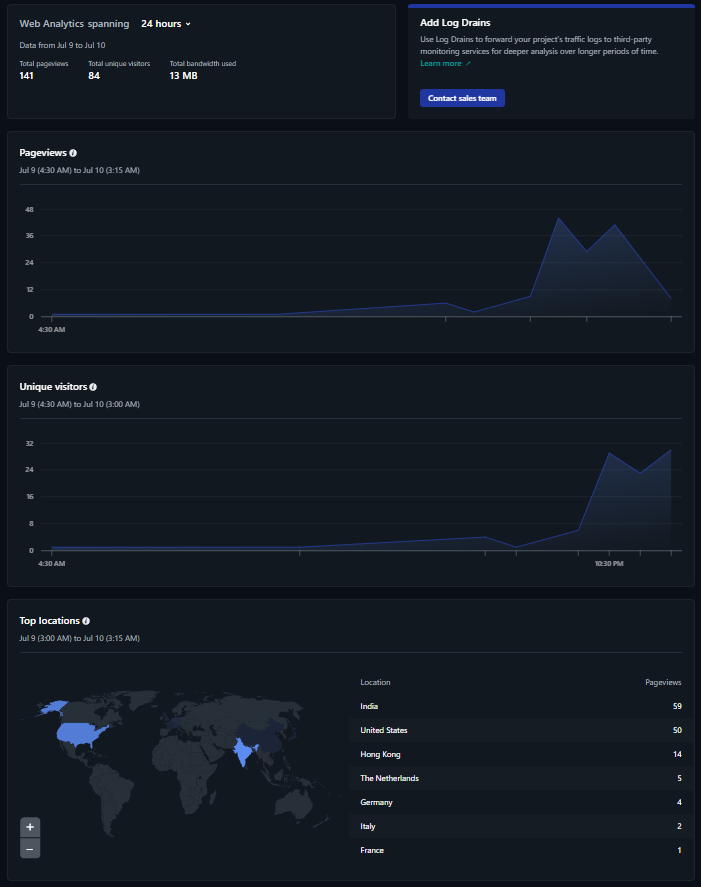
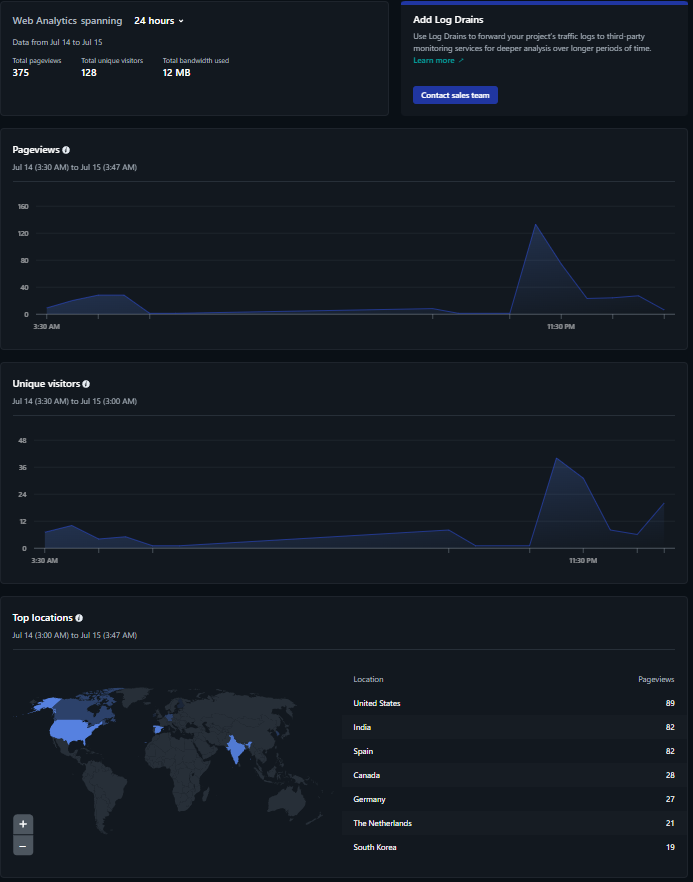
docs: update README demo links and assets folder

diff --git a/README.md b/README.md
@@ -417,7 +417,8 @@ All user feedback was collected via a [Google Form](https://forms.gle/1s3Abvi6QE
   <a href="https://github.com/ranitpal77/rental-deposit/commit/33abd4df812b8efccc7f0e707812f6ff719c99a9">33abd4d</a><br>
   <a href="https://github.com/ranitpal77/rental-deposit/commit/ce2c3ead0e2a5a0582a077b1bb72ba9e63a00921">ce2c3ea</a><br>
   <a href="https://github.com/ranitpal77/rental-deposit/commit/d3bc91f357713b65164d9ae6c12e4680d20dc6ff">d3bc91f</a><br>
-  <a href="https://github.com/ranitpal77/rental-deposit/commit/73e8303933e89e1ac38a0662f81db51a8d214be5">73e8303</a>
+  <a href="https://github.com/ranitpal77/rental-deposit/commit/73e8303933e89e1ac38a0662f81db51a8d214be5">73e8303</a><br>
+  <a href="https://github.com/ranitpal77/rental-deposit/commit/d0329b10238185a7c472122fcfea0d906511016f">d0329b1</a>
 </td>
     </tr>
   </tbody>
@@ -461,8 +462,8 @@ All user feedback was collected via a [Google Form](https://forms.gle/1s3Abvi6QE
 
 ## Demo Videos
 
-- [Demo 01 — Tenant & Landlord mutual release](https://drive.google.com/file/d/1j06Pp7PkYbWX1ZUllnkL9d6fhi0bkG8-/view?usp=sharing)
-- [Demo 02 — Full arbitration flow](https://drive.google.com/file/d/1eEotUZcd0m8-GPFs7fa5r2UxEeT-Y46h/view?usp=sharing)
+- [Demo 01 — Tenant & Landlord mutual release](https://drive.google.com/file/d/1kBQg4wOhE_GK0XX4U2YOMuV7dga3wn32/view?usp=sharing)
+- [Demo 02 — Full arbitration flow](https://drive.google.com/file/d/1EdmxVmpbH-Nec6YFQgJnzdemJTVD6tqX/view?usp=sharing)
 
 ---
 